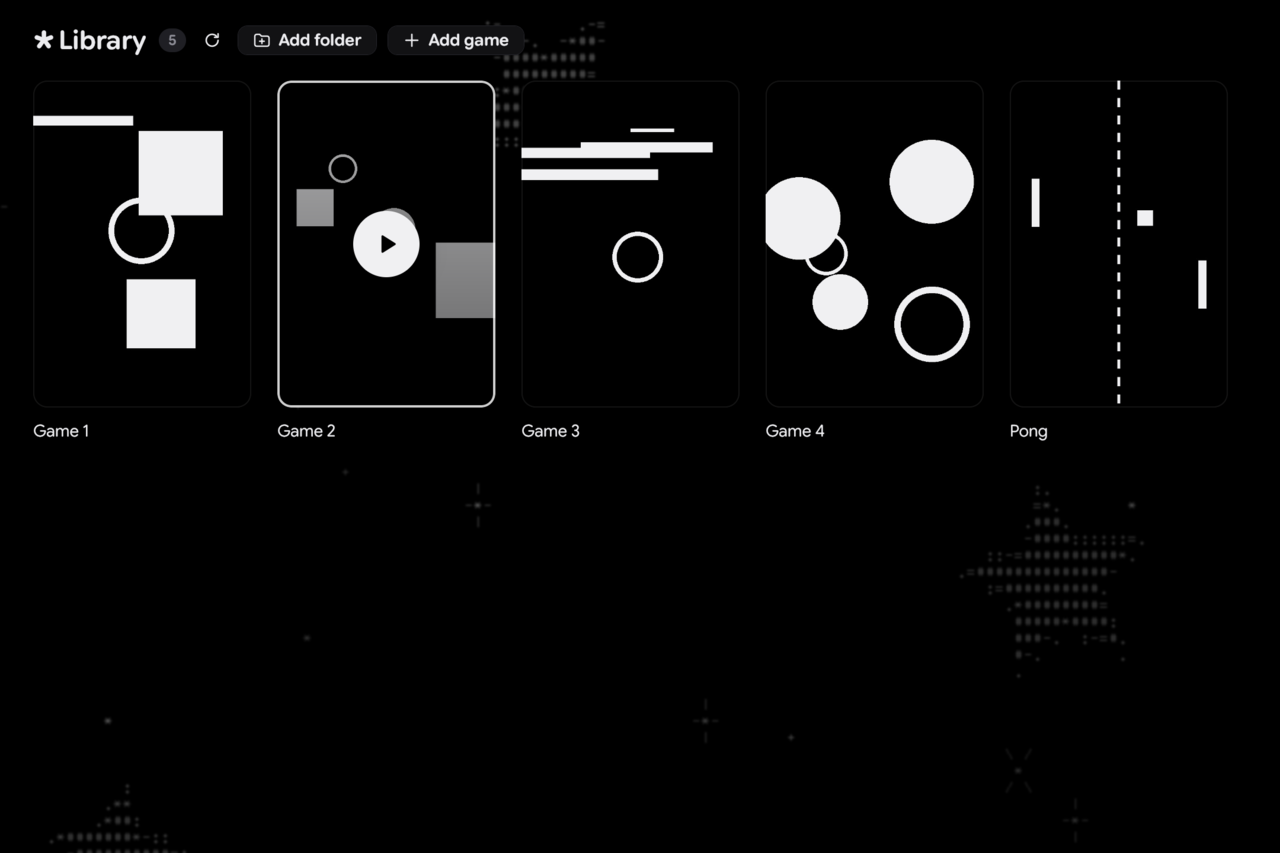
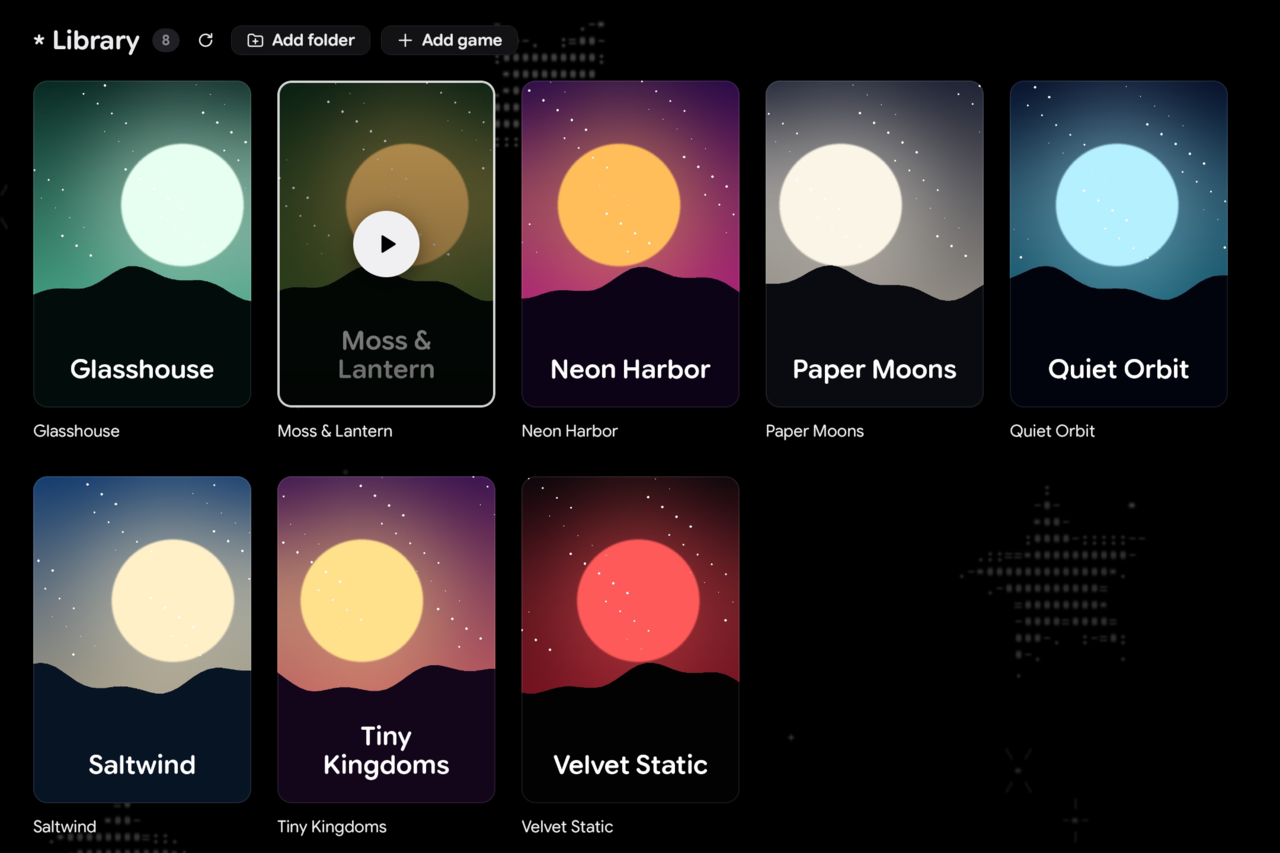
Screenshots from a made-up demo library
scripts/preview.sh now renders from a throwaway home that
scripts/demo_home.py builds: eight invented games with generated cover
art and banners already in the art cache (nothing is fetched), and a fake
Steam with one Proton build. Screenshots, the README's preview included,
no longer show anyone's real games; --real renders your own library.

diff --git a/scripts/demo_home.py b/scripts/demo_home.py
@@ -1,0 +1,110 @@
+"""Builds a made-up home folder for screenshots: eight invented games with generated cover
+art, a fake Steam install with one Proton build, and the art already in the app's cache so
+nothing is fetched. Nothing in it is a real game.
+
+    python3 scripts/demo_home.py OUT_DIR FONT.ttf
+"""
+
+import math
+import os
+import sys
+
+from PIL import Image, ImageDraw, ImageFilter, ImageFont
+
+GAMES = [
+    # folder, title, top colour, bottom colour, sun colour
+    ("Neon.Harbor", "Neon Harbor", (40, 10, 70), (230, 40, 140), (255, 190, 90)),
+    ("Moss_and_Lantern", "Moss & Lantern", (12, 40, 24), (110, 150, 60), (255, 200, 110)),
+    ("Paper.Moons", "Paper Moons", (30, 34, 52), (190, 180, 160), (250, 245, 230)),
+    ("Quiet.Orbit", "Quiet Orbit", (6, 14, 40), (20, 120, 140), (180, 240, 255)),
+    ("Saltwind", "Saltwind", (20, 60, 110), (220, 190, 140), (255, 240, 200)),
+    ("Tiny.Kingdoms", "Tiny Kingdoms", (60, 20, 80), (250, 120, 100), (255, 225, 140)),
+    ("Velvet.Static", "Velvet Static", (10, 6, 10), (160, 20, 40), (255, 90, 90)),
+    ("Glasshouse", "Glasshouse", (8, 40, 34), (90, 210, 170), (230, 255, 240)),
+]
+FIRST_ID = 900001
+
+
+def gradient(w, h, top, bottom, horizontal=False):
+    img = Image.new("RGB", (w, h))
+    d = ImageDraw.Draw(img)
+    n = w if horizontal else h
+    for i in range(n):
+        t = i / max(n - 1, 1)
+        c = tuple(round(a + (b - a) * t) for a, b in zip(top, bottom))
+        d.line([(i, 0), (i, h)] if horizontal else [(0, i), (w, i)], fill=c)
+    return img
+
+
+def art(w, h, top, bottom, sun, seed, title, font_path, horizontal=False):
+    img = gradient(w, h, top, bottom, horizontal)
+    # A soft sun or planet, with a glow.
+    r = int(min(w, h) * 0.28)
+    cx, cy = int(w * (0.3 + 0.4 * ((seed * 37) % 100) / 100)), int(h * 0.38)
+    glow = Image.new("L", (w, h), 0)
+    ImageDraw.Draw(glow).ellipse([cx - r * 1.6, cy - r * 1.6, cx + r * 1.6, cy + r * 1.6], fill=110)
+    img.paste(Image.new("RGB", (w, h), sun), mask=glow.filter(ImageFilter.GaussianBlur(r * 0.6)))
+    disc = Image.new("L", (w, h), 0)
+    ImageDraw.Draw(disc).ellipse([cx - r, cy - r, cx + r, cy + r], fill=255)
+    img.paste(Image.new("RGB", (w, h), sun), mask=disc.filter(ImageFilter.GaussianBlur(2)))
+    # A horizon of hills.
+    hills = Image.new("L", (w, h), 0)
+    pts = [(0, h)]
+    for x in range(0, w + 20, 20):
+        y = h * 0.62 + math.sin(x / w * 6 + seed) * h * 0.04 + math.sin(x / w * 17 + seed * 2) * h * 0.015
+        pts.append((x, y))
+    pts.append((w, h))
+    ImageDraw.Draw(hills).polygon(pts, fill=255)
+    img.paste(Image.new("RGB", (w, h), tuple(c // 3 for c in top)), mask=hills)
+    # Small stars.
+    d = ImageDraw.Draw(img)
+    for i in range(40):
+        x = (seed * 7919 + i * 104729) % w
+        y = (seed * 31 + i * 7477) % int(h * 0.55)
+        s = 1 + (i % 3)
+        d.ellipse([x - s, y - s, x + s, y + s], fill=(255, 255, 255))
+    if title:
+        size = int(w * 0.12)
+        font = ImageFont.truetype(font_path, size)
+        words, lines, line = title.split(), [], ""
+        for word in words:
+            test = (line + " " + word).strip()
+            if d.textlength(test, font=font) > w * 0.84 and line:
+                lines.append(line)
+                line = word
+            else:
+                line = test
+        lines.append(line)
+        y = h * 0.92 - len(lines) * size * 1.1
+        for ln in lines:
+            d.text(((w - d.textlength(ln, font=font)) / 2, y), ln, font=font, fill=(255, 255, 255))
+            y += size * 1.1
+    return img
+
+
+def main():
+    home, font = sys.argv[1], sys.argv[2]
+    games = os.path.join(home, "Games")
+    cache = os.path.join(home, ".cache", "asterisk-ofix", "art")
+    steam = os.path.join(home, ".local", "share", "Steam", "steamapps", "common", "Proton 9.0")
+    for d in (games, cache, steam):
+        os.makedirs(d, exist_ok=True)
+    open(os.path.join(steam, "proton"), "w").close()
+    for i, (folder, title, top, bottom, sun) in enumerate(GAMES):
+        app_id = FIRST_ID + i
+        root = os.path.join(games, folder)
+        os.makedirs(root, exist_ok=True)
+        open(os.path.join(root, folder.replace(".", "") + ".exe"), "w").close()
+        open(os.path.join(root, "SteamFix64.dll"), "w").close()
+        with open(os.path.join(root, "SteamFix.ini"), "w") as f:
+            f.write(f"[Main]\nRealAppId={app_id}\nFakeAppId=480\n")
+        art(600, 900, top, bottom, sun, i + 1, title, font).save(os.path.join(cache, f"{app_id}_cover.jpg"), quality=90)
+        art(1920, 620, top, bottom, sun, i + 1, None, font, horizontal=True).save(
+            os.path.join(cache, f"{app_id}_hero.jpg"), quality=88
+        )
+        with open(os.path.join(cache, f"{app_id}_name.txt"), "w") as f:
+            f.write(title)
+    print(f"demo home with {len(GAMES)} games in {home}")
+
+
+main()

diff --git a/src/ui/view.rs b/src/ui/view.rs
@@ -45,14 +45,14 @@ pub const SCENES: &[Scene] = &[
         }
     }),
     ("search", |s| {
-        s.search = rune::TextEdit::new("ma");
+        s.search = rune::TextEdit::new("or");
         s.search_open = true;
     }),
     ("no-matches", |s| {
         s.search = rune::TextEdit::new("zzzz");
         s.search_open = true;
     }),
-    ("toast", |s| s.set_status("Launched Pong with GE-Proton10-4")),
+    ("toast", |s| s.set_status("Launched Neon Harbor with Proton 9.0")),
 ];
 
 pub fn view(s: &App, cx: &mut Cx<App>) -> El {

diff --git a/AGENTS.md b/AGENTS.md
@@ -47,8 +47,12 @@ nix develop -c scripts/preview.sh /some/dir
 ```
 
 This renders `library.png`, `library-narrow.png`, `hover.png`, `panel.png`,
-`panel-narrow.png`, `search.png`, `no-matches.png` and `toast.png` headlessly from your real library
-(Rune's `--snap`, with the scenes in `view::SCENES`). Look at them after any UI change.
+`panel-narrow.png`, `search.png`, `no-matches.png` and `toast.png` headlessly (Rune's
+`--snap`, with the scenes in `view::SCENES`) from a made-up demo library:
+`scripts/demo_home.py` builds a throwaway home with eight invented games, generated cover
+art already in the cache, and a fake Steam with one Proton build. Screenshots never show
+the user's real games; add `--real` only to check something against your own library.
+Look at them after any UI change.
 Don't launch the app on the user's desktop to take screenshots. In a sandbox without the
 GPU, add `VK_ICD_FILENAMES=/run/opengl-driver/share/vulkan/icd.d/lvp_icd.x86_64.json`
 (Mesa's software Vulkan).
